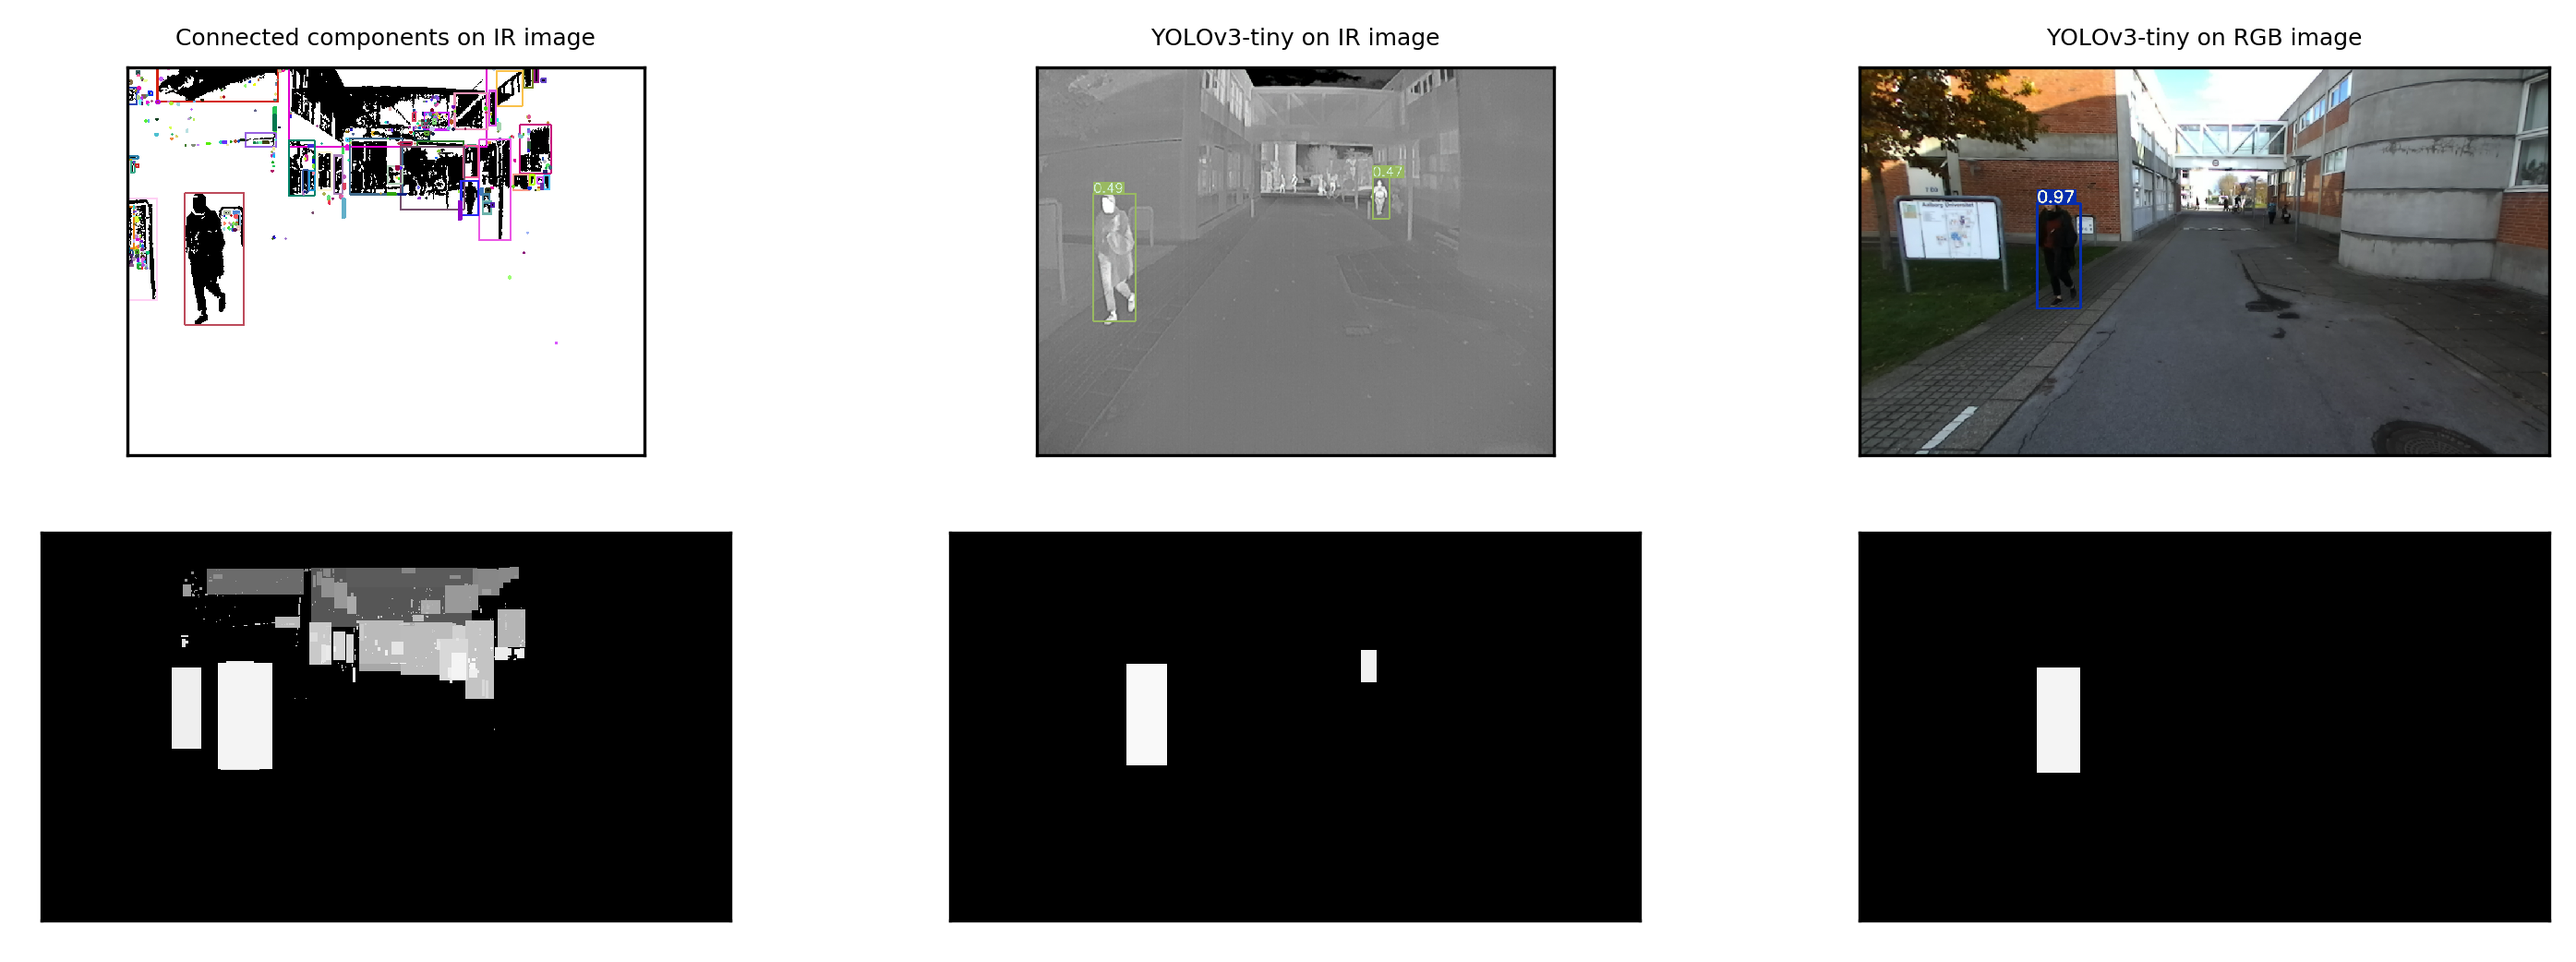
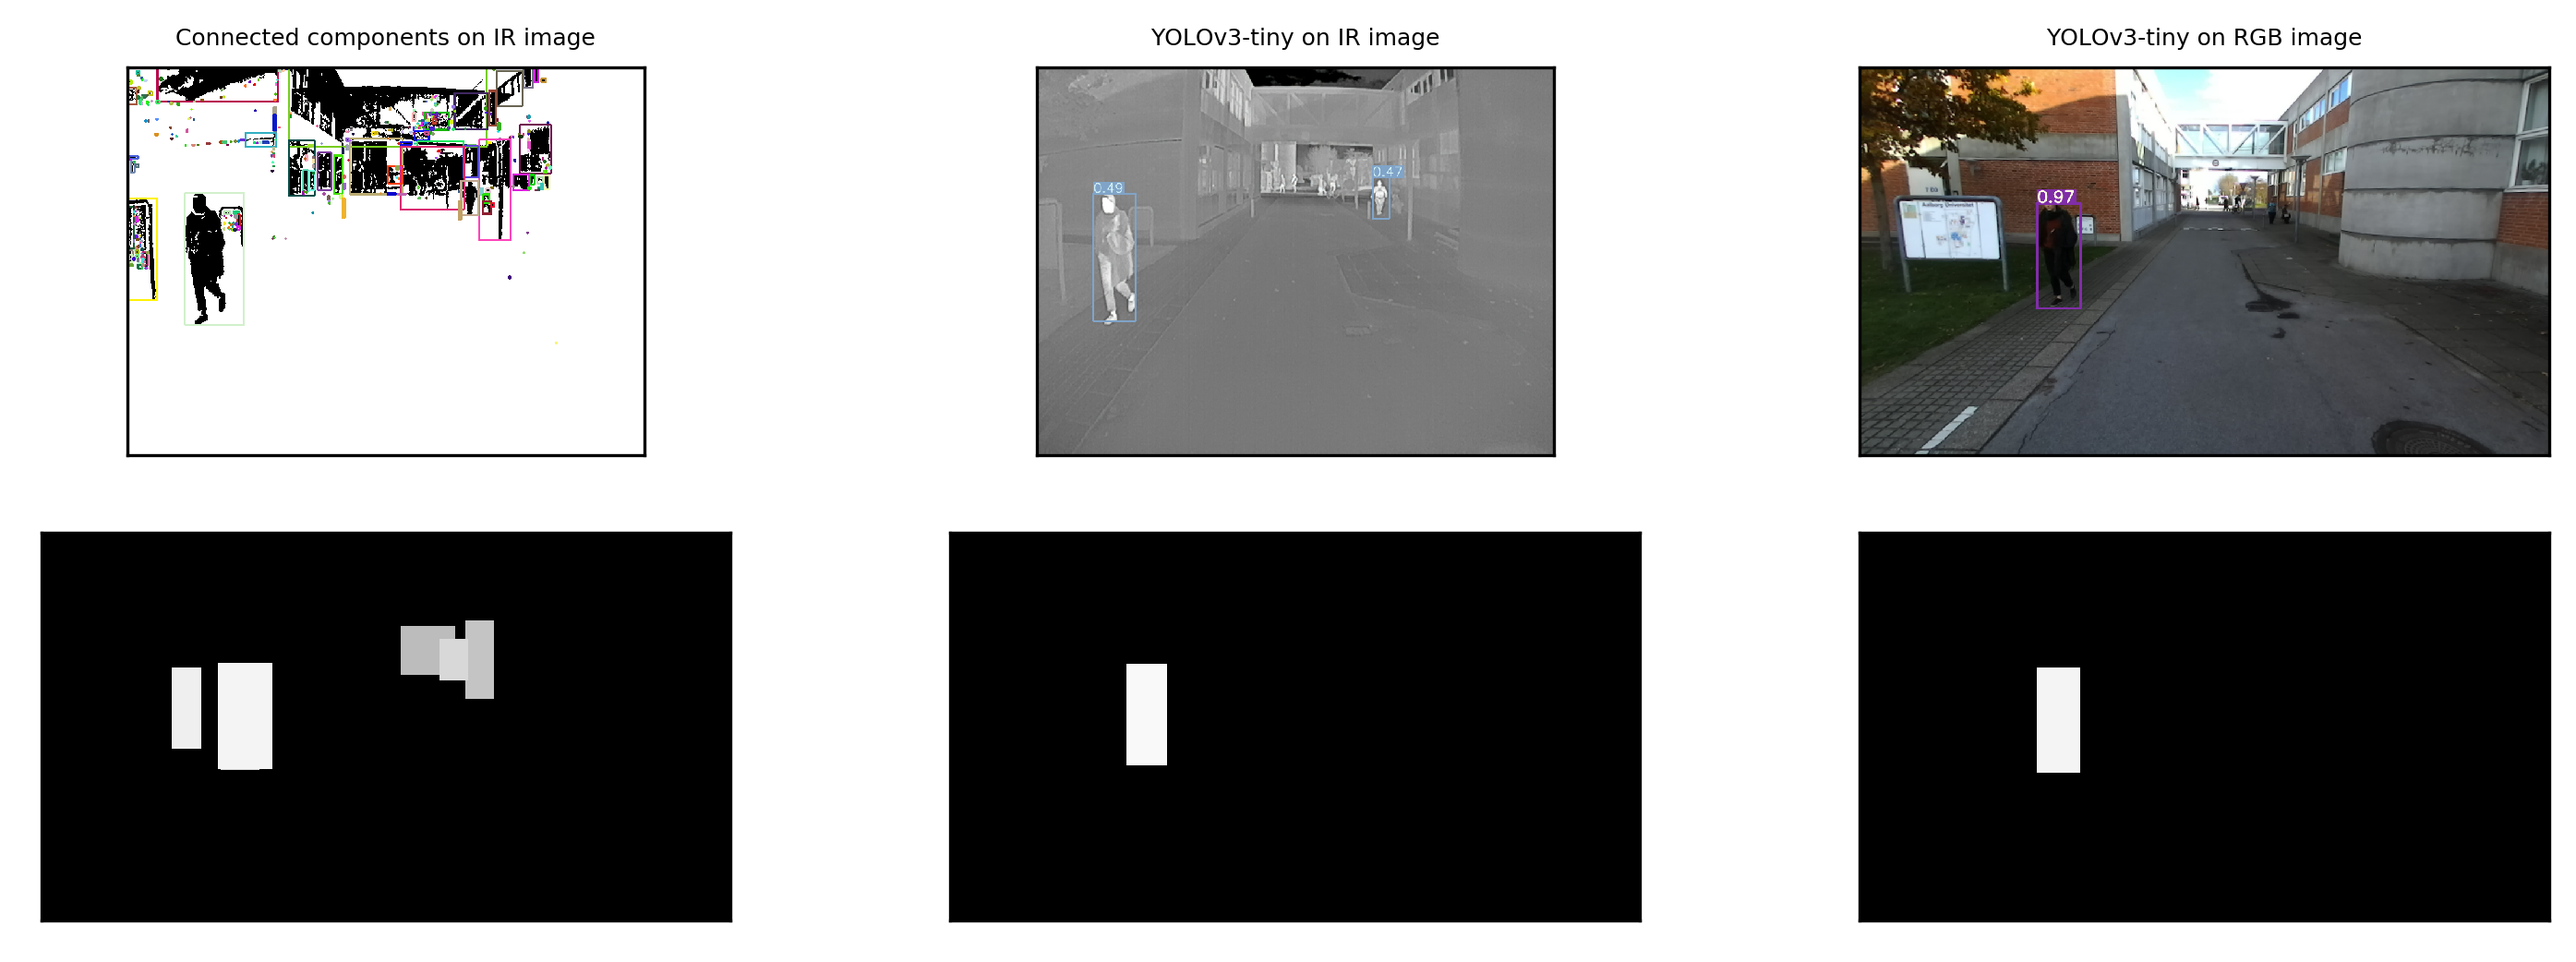
add constraints on bounding boxes

diff --git a/catkin_ws/src/persondetection/include/utils/boxes.py b/catkin_ws/src/persondetection/include/utils/boxes.py
@@ -54,14 +54,17 @@ class Box:
         rel_y = self.y/self.img_h
         rel_x = self.x/self.img_w
 
-        score_yh = calculate_confidence_score(rel_y, rel_h, model='y_height')
-        score_aspect_ratio = calculate_confidence_score(rel_h, rel_w, model='aspect_ratio')
-        score_dimensions = np.round(score_yh * score_aspect_ratio,decimals=2)
-        total_score = score_dimensions
+        if rel_h > 0.1 and rel_y > 0.3:
+            score_yh = calculate_confidence_score(rel_y, rel_h, model='y_height')
+            score_aspect_ratio = calculate_confidence_score(rel_h, rel_w, model='aspect_ratio')
+            score_dimensions = np.round(score_yh * score_aspect_ratio,decimals=2)
+            total_score = score_dimensions
+            print("YH", score_yh, "AR", score_aspect_ratio, "->", total_score)
+        else: total_score = 0
 
         # print(total_score)
         self.score = total_score
-        print("YH",score_yh,"AR",score_aspect_ratio,"->",self.score)
+
 
 
 def makeConfidenceMapFromBoxes(img,boxes):
